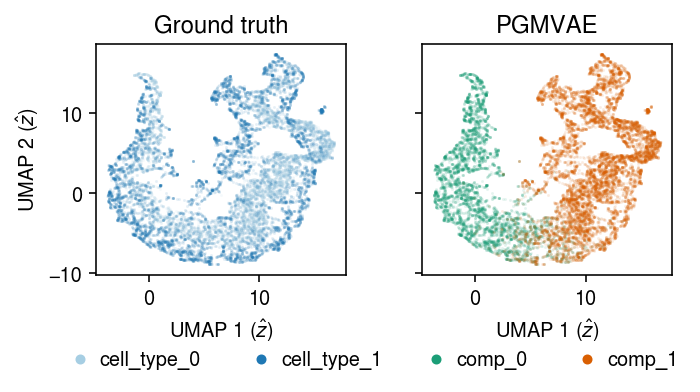
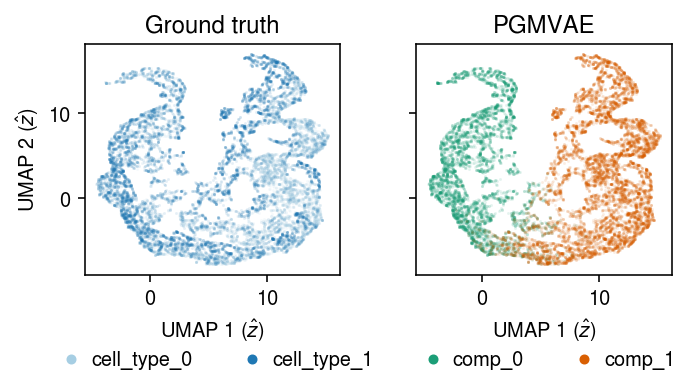
Do more tinkinerg with deep unsupervised learning

diff --git a/docs/zinb-vae-gmm.html b/docs/zinb-vae-gmm.html
@@ -1,7 +1,7 @@
 <!DOCTYPE html>
 <html lang="en">
 <head>
-<!-- 2020-07-09 Thu 23:44 -->
+<!-- 2021-09-05 Sun 17:26 -->
 <meta charset="utf-8">
 <meta name="viewport" content="width=device-width, initial-scale=1">
 <title>Deep unsupervised clustering of scRNA-seq data</title>
@@ -360,6 +360,7 @@ We assume \(
   \newcommand\vlambda{\boldsymbol{\lambda}}
   \newcommand\vmu{\boldsymbol{\mu}}
   \newcommand\vphi{\boldsymbol{\phi}}
+  \newcommand\vpi{\boldsymbol{\pi}}
   \)
 </p>
 
@@ -446,7 +447,8 @@ approximated as a Monte Carlo integral (Kingma and Welling 2014).
     <span class="org-keyword">return</span> <span class="org-keyword">self</span>.net(x)
 
 <span class="org-keyword">class</span> <span class="org-type">DeepGaussian</span>(torch.nn.Module):
-  <span class="org-doc">"""Gaussian distribution parameterized by FC networks for mean and scale"""</span>
+  <span class="org-doc">"""Gaussian distribution parameterized by FC networks for mean and (diagonal)</span>
+<span class="org-doc">scale"""</span>
   <span class="org-keyword">def</span> <span class="org-function-name">__init__</span>(<span class="org-keyword">self</span>, input_dim, output_dim, hidden_dim=128):
     <span class="org-builtin">super</span>().__init__()
     <span class="org-keyword">self</span>.net = FC(input_dim, hidden_dim)
@@ -467,9 +469,12 @@ approximated as a Monte Carlo integral (Kingma and Welling 2014).
   <span class="org-keyword">def</span> <span class="org-function-name">forward</span>(<span class="org-keyword">self</span>, x):
     <span class="org-variable-name">q</span> = <span class="org-keyword">self</span>.net(x)
     <span class="org-keyword">return</span> <span class="org-keyword">self</span>.logits(q)
+</pre>
+</div>
 
-<span class="org-keyword">class</span> <span class="org-type">BGMVAE</span>(torch.nn.Module):
-  <span class="org-doc">"GMVAE with Bernoulli likelihood"</span>
+<div class="org-src-container">
+<pre class="src src-ipython" id="orgf28a8c5"><span class="org-keyword">class</span> <span class="org-type">BGMVAE</span>(torch.nn.Module):
+  <span class="org-doc">"""GMVAE with Bernoulli likelihood"""</span>
   <span class="org-keyword">def</span> <span class="org-function-name">__init__</span>(<span class="org-keyword">self</span>, input_dim, latent_dim, n_clusters, hidden_dim=128):
     <span class="org-builtin">super</span>().__init__()
     <span class="org-keyword">self</span>.n_clusters = n_clusters
@@ -491,7 +496,7 @@ approximated as a Monte Carlo integral (Kingma and Welling 2014).
     <span class="org-keyword">assert</span> <span class="org-keyword">not</span> torch.isnan(loss)
     <span class="org-keyword">if</span> writer <span class="org-keyword">is</span> <span class="org-keyword">not</span> <span class="org-constant">None</span> <span class="org-keyword">and</span> labels <span class="org-keyword">is</span> <span class="org-keyword">not</span> <span class="org-constant">None</span>:
       <span class="org-keyword">with</span> torch.no_grad():
-        <span class="org-variable-name">cond_entropy</span> = (probs * torch.log(probs + 1e-16)).mean()
+        <span class="org-variable-name">cond_entropy</span> = -(probs * torch.log(probs + 1e-16)).mean()
         writer.add_scalar(<span class="org-string">'loss/cond_entropy'</span>, cond_entropy, global_step)
         <span class="org-variable-name">acc</span> = 0.
         <span class="org-keyword">for</span> k <span class="org-keyword">in</span> <span class="org-builtin">range</span>(labels.shape[1]):
@@ -544,25 +549,27 @@ approximated as a Monte Carlo integral (Kingma and Welling 2014).
 
   <span class="org-type">@torch.no_grad</span>()
   <span class="org-keyword">def</span> <span class="org-function-name">get_labels</span>(<span class="org-keyword">self</span>, data):
-    <span class="org-keyword">with</span> torch.no_grad():
-      <span class="org-variable-name">yhat</span> = []
-      <span class="org-keyword">for</span> x, *_ <span class="org-keyword">in</span> data:
-        <span class="org-variable-name">x</span> = x.cuda()
-        yhat.append(torch.nn.functional.softmax(fit.encoder_y.forward(x), dim=1).cpu().numpy())
+    <span class="org-variable-name">yhat</span> = []
+    <span class="org-keyword">for</span> x, *_ <span class="org-keyword">in</span> data:
+      <span class="org-variable-name">x</span> = x.cuda()
+      yhat.append(torch.nn.functional.softmax(fit.encoder_y.forward(x), dim=1).cpu().numpy())
     <span class="org-keyword">return</span> np.vstack(yhat)
 
   <span class="org-type">@torch.no_grad</span>()
   <span class="org-keyword">def</span> <span class="org-function-name">get_latent</span>(<span class="org-keyword">self</span>, data):
-    <span class="org-keyword">with</span> torch.no_grad():
-      <span class="org-variable-name">zhat</span> = []
-      <span class="org-variable-name">y</span> = torch.eye(<span class="org-keyword">self</span>.n_clusters).cuda()
-      <span class="org-keyword">for</span> x, *_ <span class="org-keyword">in</span> data:
-        <span class="org-variable-name">x</span> = x.cuda()
-        <span class="org-variable-name">yhat</span> = torch.nn.functional.softmax(<span class="org-keyword">self</span>.encoder_y.forward(x), dim=1)
-        zhat.append(torch.stack([yhat[:,k].reshape(-1, 1) * fit.encoder_z.forward(torch.cat([x, y[k].repeat(x.shape[0], 1)], dim=1))[0] <span class="org-keyword">for</span> k <span class="org-keyword">in</span> <span class="org-builtin">range</span>(fit.n_clusters)]).<span class="org-builtin">sum</span>(dim=0).cpu().numpy())
+    <span class="org-variable-name">zhat</span> = []
+    <span class="org-variable-name">y</span> = torch.eye(<span class="org-keyword">self</span>.n_clusters).cuda()
+    <span class="org-keyword">for</span> x, *_ <span class="org-keyword">in</span> data:
+      <span class="org-variable-name">x</span> = x.cuda()
+      <span class="org-variable-name">yhat</span> = torch.nn.functional.softmax(<span class="org-keyword">self</span>.encoder_y.forward(x), dim=1)
+      zhat.append(torch.stack([yhat[:,k].reshape(-1, 1) * fit.encoder_z.forward(torch.cat([x, y[k].repeat(x.shape[0], 1)], dim=1))[0]
+                               <span class="org-keyword">for</span> k <span class="org-keyword">in</span> <span class="org-builtin">range</span>(fit.n_clusters)]).<span class="org-builtin">sum</span>(dim=0).cpu().numpy())
     <span class="org-keyword">return</span> np.vstack(zhat)
+</pre>
+</div>
 
-<span class="org-keyword">class</span> <span class="org-type">PGMVAE</span>(torch.nn.Module):
+<div class="org-src-container">
+<pre class="src src-ipython" id="org712d798"><span class="org-keyword">class</span> <span class="org-type">PGMVAE</span>(torch.nn.Module):
   <span class="org-keyword">def</span> <span class="org-function-name">__init__</span>(<span class="org-keyword">self</span>, input_dim, latent_dim, n_clusters, hidden_dim=128):
     <span class="org-builtin">super</span>().__init__()
     <span class="org-keyword">self</span>.n_clusters = n_clusters
@@ -584,8 +591,8 @@ approximated as a Monte Carlo integral (Kingma and Welling 2014).
     <span class="org-keyword">assert</span> <span class="org-keyword">not</span> torch.isnan(loss)
     <span class="org-keyword">if</span> writer <span class="org-keyword">is</span> <span class="org-keyword">not</span> <span class="org-constant">None</span> <span class="org-keyword">and</span> labels <span class="org-keyword">is</span> <span class="org-keyword">not</span> <span class="org-constant">None</span>:
       <span class="org-keyword">with</span> torch.no_grad():
-        writer.add_scalar(<span class="org-string">'loss/cross_entropy'</span>, torch.nn.functional.binary_cross_entropy(probs, labels), global_step)
-        writer.add_scalar(<span class="org-string">'loss/cond_entropy'</span>, (probs * torch.log(probs + 1e-16)).mean(), global_step)
+        writer.add_scalar(<span class="org-string">'loss/cross_entropy'</span>, <span class="org-builtin">min</span>(torch.nn.functional.binary_cross_entropy(probs, labels), torch.nn.functional.binary_cross_entropy(1 - probs, labels)), global_step)
+        writer.add_scalar(<span class="org-string">'loss/cond_entropy'</span>, -(probs * torch.log(probs + 1e-16)).mean(), global_step)
     <span class="org-comment-delimiter"># </span><span class="org-comment">Assume cuda</span>
     <span class="org-variable-name">y</span> = torch.eye(<span class="org-keyword">self</span>.n_clusters).cuda()
     <span class="org-comment-delimiter"># </span><span class="org-comment">[n_clusters, latent_dim]</span>
@@ -632,20 +639,19 @@ approximated as a Monte Carlo integral (Kingma and Welling 2014).
 
   <span class="org-type">@torch.no_grad</span>()
   <span class="org-keyword">def</span> <span class="org-function-name">get_labels</span>(<span class="org-keyword">self</span>, data):
-    <span class="org-keyword">with</span> torch.no_grad():
-      <span class="org-variable-name">yhat</span> = []
-      <span class="org-keyword">for</span> x, *_ <span class="org-keyword">in</span> data:
-        yhat.append(torch.nn.functional.softmax(fit.encoder_y.forward(x), dim=1).cpu().numpy())
+    <span class="org-variable-name">yhat</span> = []
+    <span class="org-keyword">for</span> x, *_ <span class="org-keyword">in</span> data:
+      yhat.append(torch.nn.functional.softmax(fit.encoder_y.forward(x), dim=1).cpu().numpy())
     <span class="org-keyword">return</span> np.vstack(yhat)
 
   <span class="org-type">@torch.no_grad</span>()
   <span class="org-keyword">def</span> <span class="org-function-name">get_latent</span>(<span class="org-keyword">self</span>, data):
-    <span class="org-keyword">with</span> torch.no_grad():
-      <span class="org-variable-name">zhat</span> = []
-      <span class="org-variable-name">y</span> = torch.eye(<span class="org-keyword">self</span>.n_clusters).cuda()
-      <span class="org-keyword">for</span> x, *_ <span class="org-keyword">in</span> data:
-        <span class="org-variable-name">yhat</span> = torch.nn.functional.softmax(<span class="org-keyword">self</span>.encoder_y.forward(x), dim=1)
-        zhat.append(torch.stack([yhat[:,k].reshape(-1, 1) * fit.encoder_z.forward(torch.cat([x, y[k].repeat(x.shape[0], 1)], dim=1))[0] <span class="org-keyword">for</span> k <span class="org-keyword">in</span> <span class="org-builtin">range</span>(fit.n_clusters)]).<span class="org-builtin">sum</span>(dim=0).cpu().numpy())
+    <span class="org-variable-name">zhat</span> = []
+    <span class="org-variable-name">y</span> = torch.eye(<span class="org-keyword">self</span>.n_clusters).cuda()
+    <span class="org-keyword">for</span> x, *_ <span class="org-keyword">in</span> data:
+      <span class="org-variable-name">yhat</span> = torch.nn.functional.softmax(<span class="org-keyword">self</span>.encoder_y.forward(x), dim=1)
+      zhat.append(torch.stack([yhat[:,k].reshape(-1, 1) * fit.encoder_z.forward(torch.cat([x, y[k].repeat(x.shape[0], 1)], dim=1))[0]
+                               <span class="org-keyword">for</span> k <span class="org-keyword">in</span> <span class="org-builtin">range</span>(fit.n_clusters)]).<span class="org-builtin">sum</span>(dim=0).cpu().numpy())
     <span class="org-keyword">return</span> np.vstack(zhat)
 </pre>
 </div>
@@ -689,8 +695,8 @@ pixel probabilities.
 <div class="org-src-container">
 <pre class="src src-ipython"><span class="org-variable-name">k</span> = 10
 <span class="org-variable-name">seed</span> = 5
-<span class="org-variable-name">lr</span> = 1e-2
-<span class="org-variable-name">n_epochs</span> = 1
+<span class="org-variable-name">lr</span> = 5e-3
+<span class="org-variable-name">n_epochs</span> = 2
 <span class="org-variable-name">latent_dim</span> = 10
 torch.manual_seed(seed)
 <span class="org-variable-name">fit</span> = (BGMVAE(input_dim=mnist_data[0][0].shape[0], latent_dim=latent_dim, n_clusters=k)
@@ -731,7 +737,7 @@ acc / y.shape[0]
 </div>
 
 <pre class="example">
-0.6783333333333333
+0.6509666666666667
 
 </pre>
 </div>
@@ -746,7 +752,7 @@ Read sorted immune cell scRNA-seq data
 </p>
 
 <div class="org-src-container">
-<pre class="src src-ipython"><span class="org-variable-name">dat</span> = anndata.read_h5ad(<span class="org-string">'/scratch/midway2/aksarkar/ideas/zheng-10-way.h5ad'</span>)
+<pre class="src src-ipython"><span class="org-variable-name">dat</span> = anndata.read_h5ad(<span class="org-string">'/scratch/midway2/aksarkar/singlecell/mix4.h5ad'</span>)
 </pre>
 </div>
 
@@ -770,10 +776,10 @@ mix2
 AnnData object with n_obs × n_vars = 20294 × 17808
 obs: 'barcode', 'cell_type', 'leiden'
 var: 'ensg', 'name', 'n_cells', 'n_counts'
-uns: 'pca', 'neighbors', 'leiden', 'umap'
+uns: 'leiden', 'neighbors', 'pca', 'umap'
 obsm: 'X_pca', 'X_umap'
 varm: 'PCs'
-obsp: 'distances', 'connectivities'
+obsp: 'connectivities', 'distances'
 </pre>
 
 
@@ -804,12 +810,12 @@ Fit PGMVAE.
 
 <div class="org-src-container">
 <pre class="src src-ipython"><span class="org-variable-name">k</span> = 2
-<span class="org-variable-name">seed</span> = 0
-<span class="org-variable-name">lr</span> = 1e-2
+<span class="org-variable-name">seed</span> = 3
+<span class="org-variable-name">lr</span> = 5e-3
 <span class="org-variable-name">n_epochs</span> = 2
-<span class="org-variable-name">latent_dim</span> = 10
+<span class="org-variable-name">latent_dim</span> = 4
 torch.manual_seed(seed)
-<span class="org-variable-name">fit</span> = (PGMVAE(input_dim=mix2.shape[1], latent_dim=latent_dim, n_clusters=2)
+<span class="org-variable-name">fit</span> = (PGMVAE(input_dim=mix2.shape[1], latent_dim=latent_dim, n_clusters=k)
        .fit(data,
             lr=lr,
             n_epochs=n_epochs,
@@ -862,13 +868,7 @@ Get the latent representation.
 </p>
 
 <div class="org-src-container">
-<pre class="src src-ipython"><span class="org-keyword">with</span> torch.no_grad():
-  <span class="org-variable-name">zhat</span> = []
-  <span class="org-variable-name">y</span> = torch.eye(fit.n_clusters).cuda()
-  <span class="org-keyword">for</span> x, *_ <span class="org-keyword">in</span> data:
-    <span class="org-variable-name">yhat</span> = torch.nn.functional.softmax(fit.encoder_y.forward(x), dim=1)
-    zhat.append(torch.stack([yhat[:,k].reshape(-1, 1) * fit.encoder_z.forward(torch.cat([x, y[k].repeat(x.shape[0], 1)], dim=1))[0] <span class="org-keyword">for</span> k <span class="org-keyword">in</span> <span class="org-builtin">range</span>(fit.n_clusters)]).<span class="org-builtin">sum</span>(dim=0).cpu().numpy())
-  <span class="org-variable-name">zhat</span> = np.vstack(zhat)
+<pre class="src src-ipython"><span class="org-variable-name">zhat</span> = fit.get_latent(data)
 </pre>
 </div>
 
@@ -981,7 +981,7 @@ inference and implementation.
 </div>
 <div id="postamble" class="status">
 <p class="author">Author: Abhishek Sarkar</p>
-<p class="date">Created: 2020-07-09 Thu 23:44</p>
+<p class="date">Created: 2021-09-05 Sun 17:26</p>
 <p class="validation"><a href="http://validator.w3.org/check?uri=referer">Validate</a></p>
 </div>
 </body>
